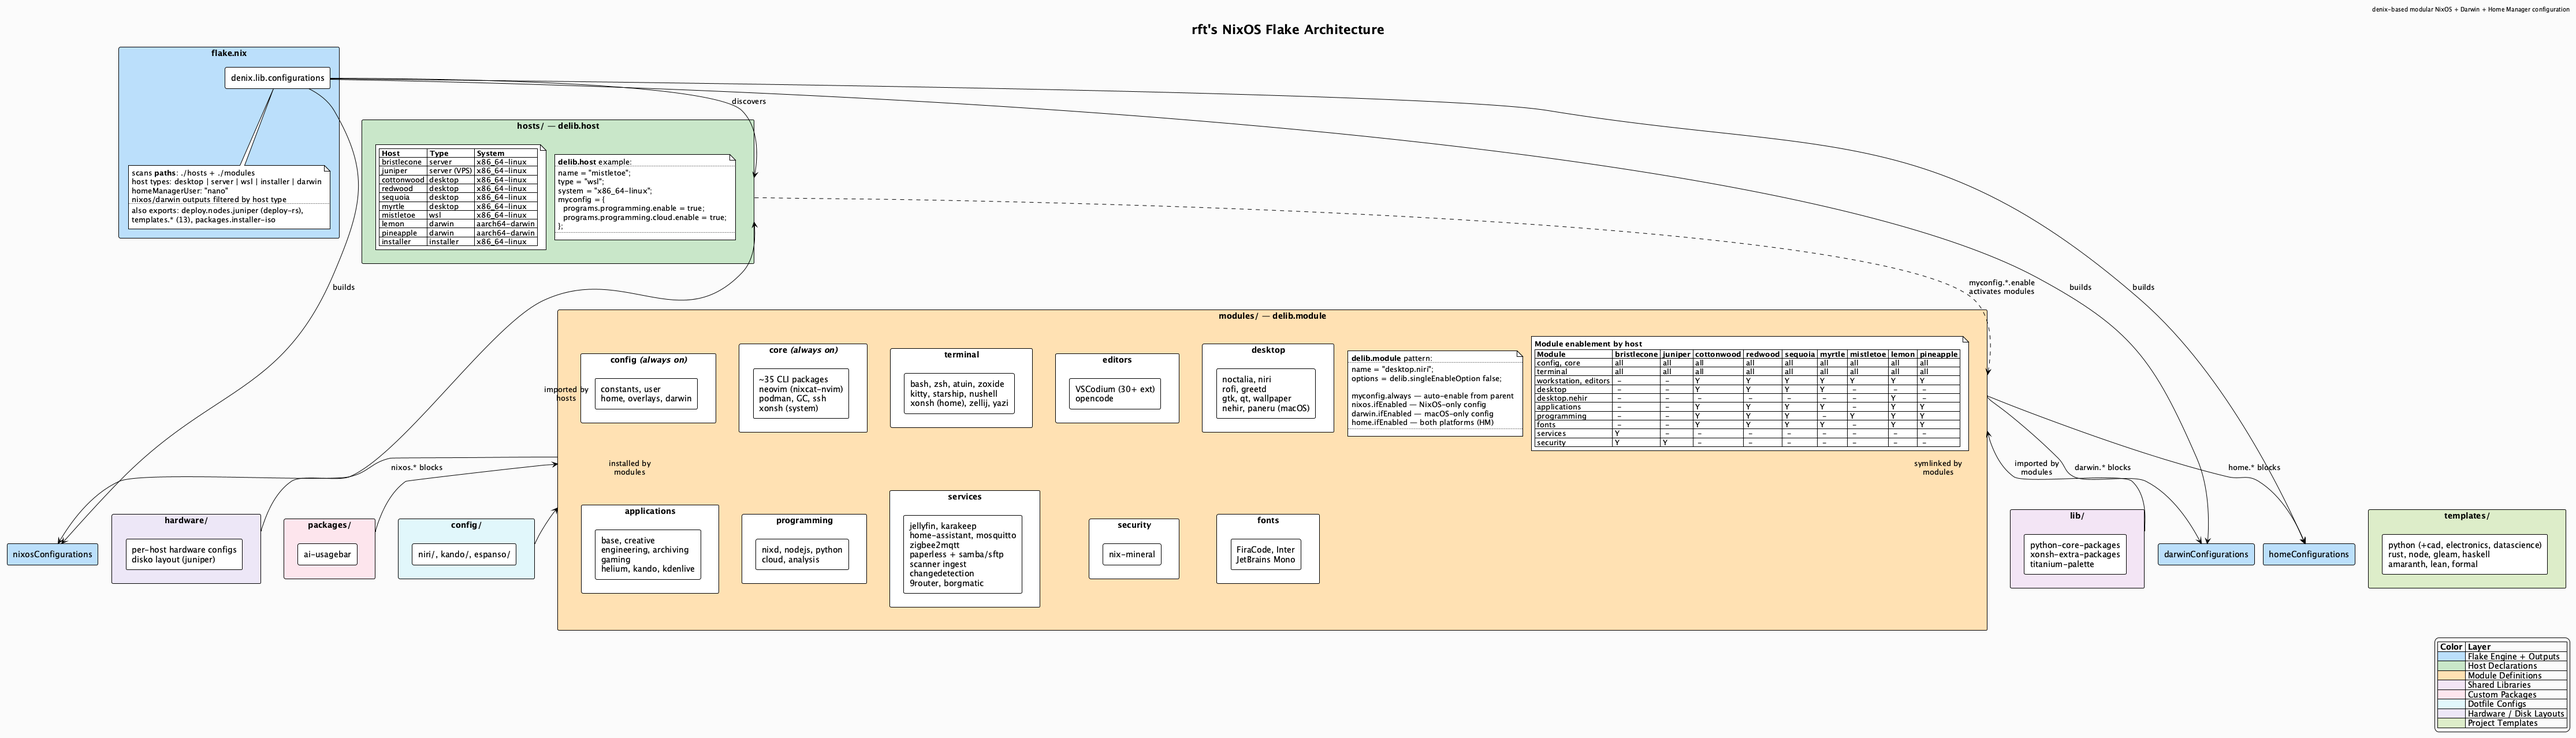
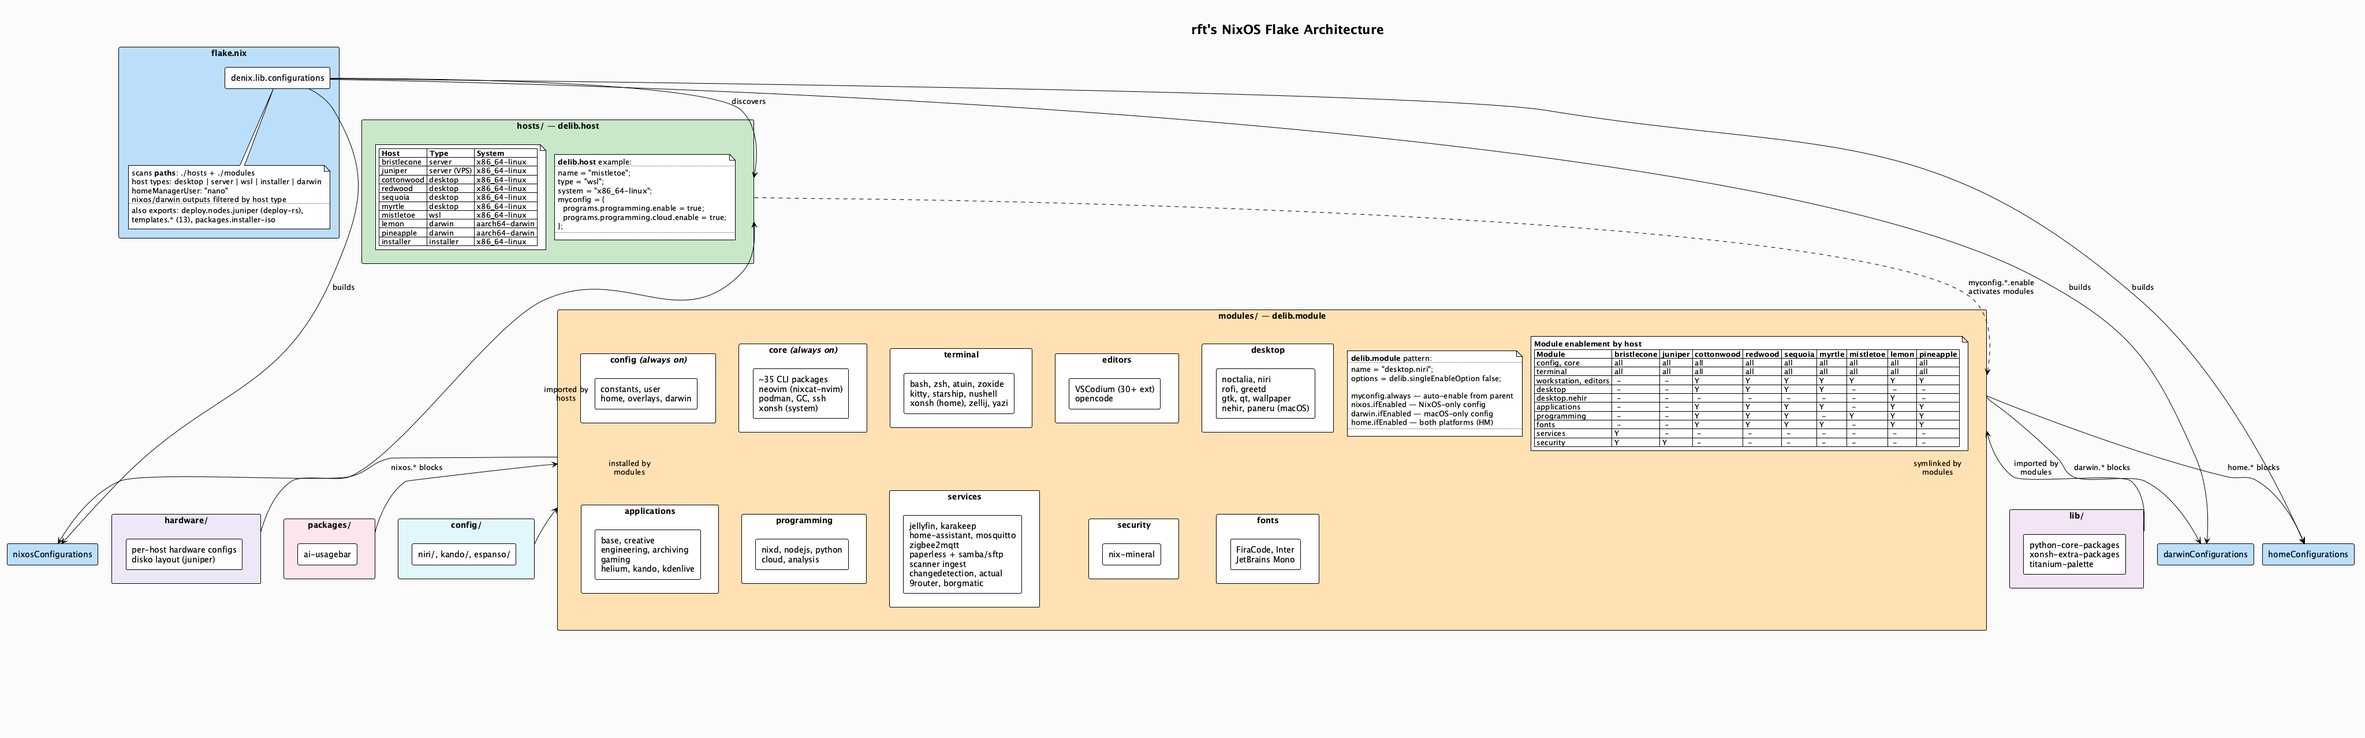
added actual budget software to services

diff --git a/docs/SERVICES.md b/docs/SERVICES.md
@@ -16,6 +16,7 @@ also be switched on or off with `myconfig.services.<name>.enable`.
 | Paperless-ngx        | 28981 | HTTP     | NetBird (`wt0`) only |
 | changedetection.io   | 5000  | HTTP     | NetBird (`wt0`) only |
 | Karakeep             | 3000  | HTTP     | NetBird (`wt0`) only |
+| Actual Budget        | 5006  | HTTPS    | NetBird (`wt0`) only |
 | Mosquitto (MQTT)     | 1883  | MQTT     | LAN            |
 | Zigbee2MQTT frontend | 8080  | HTTP     | NetBird (`wt0`) only |
 | 9router (AI gateway) | 20128 | HTTP     | NetBird (`wt0`) only |
@@ -392,6 +393,50 @@ systemd.services.zigbee2mqtt.serviceConfig.DeviceAllow = [ "/dev/ttyUSB0" ];
   (`OPENAI_BASE_URL = http://127.0.0.1:20128/v1`). It only switches on once
   `OPENAI_API_KEY` (a 9router API key) is appended to `/var/lib/karakeep/settings.env`.
 
+### Actual Budget
+
+- **What:** Local-first personal finance / envelope budgeting. The server syncs budget
+  files between the web UI, the desktop app and phones; every client keeps a full copy.
+- **Port:** 5006, HTTPS (firewall: `wt0` only). Upstream's default is 3000, which
+  Karakeep holds.
+- **URL:** `https://bristlecone.netbird.cloud:5006`
+- **Data:** `/var/lib/private/actual` (`DynamicUser`; `/var/lib/actual` is a symlink).
+  `server-files/account.sqlite` holds the server password hash and file registry,
+  `user-files/` the budgets.
+- **TLS:** The web client needs `SharedArrayBuffer`, which browsers only expose in a
+  secure context, so plain `http://` works on localhost and nowhere else. There is no
+  reverse proxy, so Actual serves HTTPS itself from a self-signed cert that the unit's
+  `preStart` generates into `/var/lib/actual/tls/` (P-256, CN/SAN
+  `bristlecone.netbird.cloud`, 825 days — Apple's ceiling for TLS certs, even from
+  user-trusted roots). It is regenerated when within 30 days of expiry, after which
+  each device has to trust the new one.
+- **Hardening:** Upstream's unit as shipped — it is already stricter than the shared
+  baseline (`DynamicUser`, `PrivateUsers`, empty `CapabilityBoundingSet`,
+  `ProtectProc=invisible`), and forcing the baseline's `SystemCallFilter` would drop
+  the `@pkey` group V8 needs.
+
+#### Bootstrap after deploy
+
+1. Fetch the cert on each device that will open the web UI. NetBird already
+   authenticates the peer, so pulling it off the live port is safe:
+
+   ```bash
+   openssl s_client -connect bristlecone.netbird.cloud:5006 </dev/null 2>/dev/null \
+     | openssl x509 > bristlecone-actual.pem
+   ```
+
+2. Trust it:
+   - **macOS:** `sudo security add-trusted-cert -d -r trustRoot -k /Library/Keychains/System.keychain bristlecone-actual.pem`
+   - **iOS:** AirDrop the file, install the profile in Settings, then enable it under
+     **General → About → Certificate Trust Settings**.
+   - **NixOS:** add it to `security.pki.certificateFiles`. Firefox keeps its own store —
+     import it under **Settings → Privacy & Security → Certificates**.
+3. Open `https://bristlecone.netbird.cloud:5006` and set the server password. The first
+   visitor sets it, so do this straight after the first deploy.
+
+Check the cert from the server with
+`sudo openssl x509 -in /var/lib/actual/tls/cert.pem -noout -subject -enddate`.
+
 ### 9router
 
 - **What:** Shared AI gateway, so provider logins, OAuth refresh, and quota tracking
@@ -572,7 +617,7 @@ the scanner's firmware first. `server min protocol = NT1` plus
 
 `services.borgmatic` runs daily via upstream's `borgmatic.timer` and backs up
 `/srv/share` plus the state of every service above (Home Assistant,
-Zigbee2MQTT, Mosquitto, Paperless, Karakeep, changedetection.io,
+Zigbee2MQTT, Mosquitto, Paperless, Karakeep, Actual Budget, changedetection.io,
 Jellyfin, 9router, Samba's passdb). `/srv/projects` is excluded — it lives in
 remote git repos. Meilisearch and redis are skipped as rebuildable.
 
@@ -583,7 +628,7 @@ remote git repos. Meilisearch and redis are skipped as rebuildable.
 | Retention | 7 daily, 4 weekly, 6 monthly |
 | Checks | repository every 2 weeks, archives monthly |
 
-SQLite databases (HA recorder, Paperless, Karakeep, Jellyfin) are dumped
+SQLite databases (HA recorder, Paperless, Karakeep, Actual's `account.sqlite`, Jellyfin) are dumped
 by borgmatic's `sqlite_databases` hook rather than copied raw, so restores are
 consistent even though the services keep running. The hook creates an empty DB
 at any configured path that doesn't exist, so update the list if a service
@@ -629,8 +674,8 @@ All services share a hardened baseline (`lib/hardened-service-config.nix`):
 
 Per-service overrides add `ReadWritePaths` or relax restrictions as needed.
 
-Zigbee2MQTT is the other exception. Upstream's unit is already stricter than
+Zigbee2MQTT and Actual Budget are the other exceptions. Upstream's unit is already stricter than
 this baseline (`DevicePolicy=closed` with a `DeviceAllow` derived from
 `serial.port`, `PrivateUsers`, `ProtectSystem=strict`, `ProtectProc=invisible`),
 so it is deliberately *not* passed through `hardenedServiceConfig` — doing so
-would loosen it.
+would loosen it. The same goes for Actual Budget (see its section above).

diff --git a/readme.md b/readme.md
@@ -85,7 +85,7 @@ shown here in zellij inside Windows Terminal.
 
 | Host | Type | Description |
 |------|------|-------------|
-| **bristlecone** | server | Self-hosted services (Jellyfin, Home Assistant + Zigbee2MQTT, Paperless + scanner ingest, changedetection.io, Karakeep, 9router) with nix-mineral hardening |
+| **bristlecone** | server | Self-hosted services (Jellyfin, Home Assistant + Zigbee2MQTT, Paperless + scanner ingest, changedetection.io, Karakeep, Actual Budget, 9router) with nix-mineral hardening |
 | **juniper** | server | Barebones VPS, installed with nixos-anywhere and updated with deploy-rs (see [VPS.md](docs/VPS.md)) |
 | **cottonwood** | desktop | Vertical screen rotation |
 | **redwood** | desktop | Full creative + engineering modules |
@@ -149,7 +149,7 @@ for the full reference.
 | **Applications** | `modules/applications/` | GUI apps: base, creative, engineering, archiving, gaming |
 | **Applications (HM)** | `modules/applications-home/` | Helium browser, Kando, KDEnlive configs |
 | **Programming** | `modules/programming/` | Dev tools, Python, Node.js, analysis, cloud |
-| **Services** | `modules/services/` | Self-hosted: jellyfin, home-assistant, mosquitto, zigbee2mqtt, paperless (+ samba/sftp scanner ingest), changedetection.io, karakeep, 9router, borgmatic |
+| **Services** | `modules/services/` | Self-hosted: jellyfin, home-assistant, mosquitto, zigbee2mqtt, paperless (+ samba/sftp scanner ingest), changedetection.io, karakeep, actual, 9router, borgmatic |
 | **Security** | `modules/security/` | nix-mineral hardening (bristlecone, juniper) |
 | **Terminal** | `modules/terminal/` | Shells (zsh, nushell, xonsh), Kitty, Starship, Zellij, Yazi |
 | **Editors** | `modules/editors/` | VSCodium (VSpaceCode), OpenCode 2 |

diff --git a/docs/MODULES.md b/docs/MODULES.md
@@ -339,6 +339,7 @@ Self-hosted services. Gated by `services.enable`.
   - `services.scanner` — document scanner ingest into Paperless: SFTP jail plus the `//<host>/scan` SMB share, consume dir at `/var/lib/scan/consume`, subdirs become tags. Enables `services.paperless` and `services.samba`. Note that it relaxes sshd's host-key and MAC algorithms host-wide for the scanner's firmware.
   - `services.samba` — Samba base setup (ports 139/445, firewall auto-opened); shares are declared by `services.scanner` and by hosts
   - `services.changedetection` — changedetection.io website monitoring (port 5000, NetBird-only)
+  - `services.actual` — Actual Budget sync server (port 5006, HTTPS with a self-signed cert generated on first start, NetBird-only)
   - `services.karakeep` — bookmarks / read-it-later (port 3000, NetBird-only; pulls in meilisearch on localhost:7700 and a headless chromium on localhost:9222; AI tagging points at `services.ai-gateway`)
   - `services.ai-gateway` — 9router AI gateway shared by the other hosts (port 20128, reachable only on the Netbird interface `wt0`)
   - `services.backup` — daily borgmatic backups of whatever the enabled services and the host declare (bristlecone adds `/srv/share`)

diff --git a/docs/SETUP.md b/docs/SETUP.md
@@ -41,7 +41,7 @@ extensions apply (host types: `desktop`, `server`, `wsl`, `installer`, `darwin`)
 
 | Host | Type | Timezone | Notable Config |
 |------|------|----------|----------------|
-| **bristlecone** | server | America/Phoenix | Headless server, SSH (key-only), Netbird VPN, self-hosted services (Jellyfin, Home Assistant + Zigbee2MQTT, Paperless, changedetection.io, Karakeep, 9router — see [SERVICES.md](SERVICES.md)), nix-mineral hardening, GRUB+EFI |
+| **bristlecone** | server | America/Phoenix | Headless server, SSH (key-only), Netbird VPN, self-hosted services (Jellyfin, Home Assistant + Zigbee2MQTT, Paperless, changedetection.io, Karakeep, Actual Budget, 9router — see [SERVICES.md](SERVICES.md)), nix-mineral hardening, GRUB+EFI |
 | **juniper** | server | America/Phoenix | Barebones VPS: core only, SSH (key-only, root prohibit-password), Netbird, disko disk layout, hybrid BIOS/UEFI GRUB, zram swap. Deployed remotely — see [VPS.md](VPS.md) |
 | **cottonwood** | desktop | America/Los_Angeles | Vertical screen rotation (`fbcon=rotate:1`), GRUB+EFI |
 | **redwood** | desktop | America/Los_Angeles | Full modules: creative + engineering explicitly enabled |
